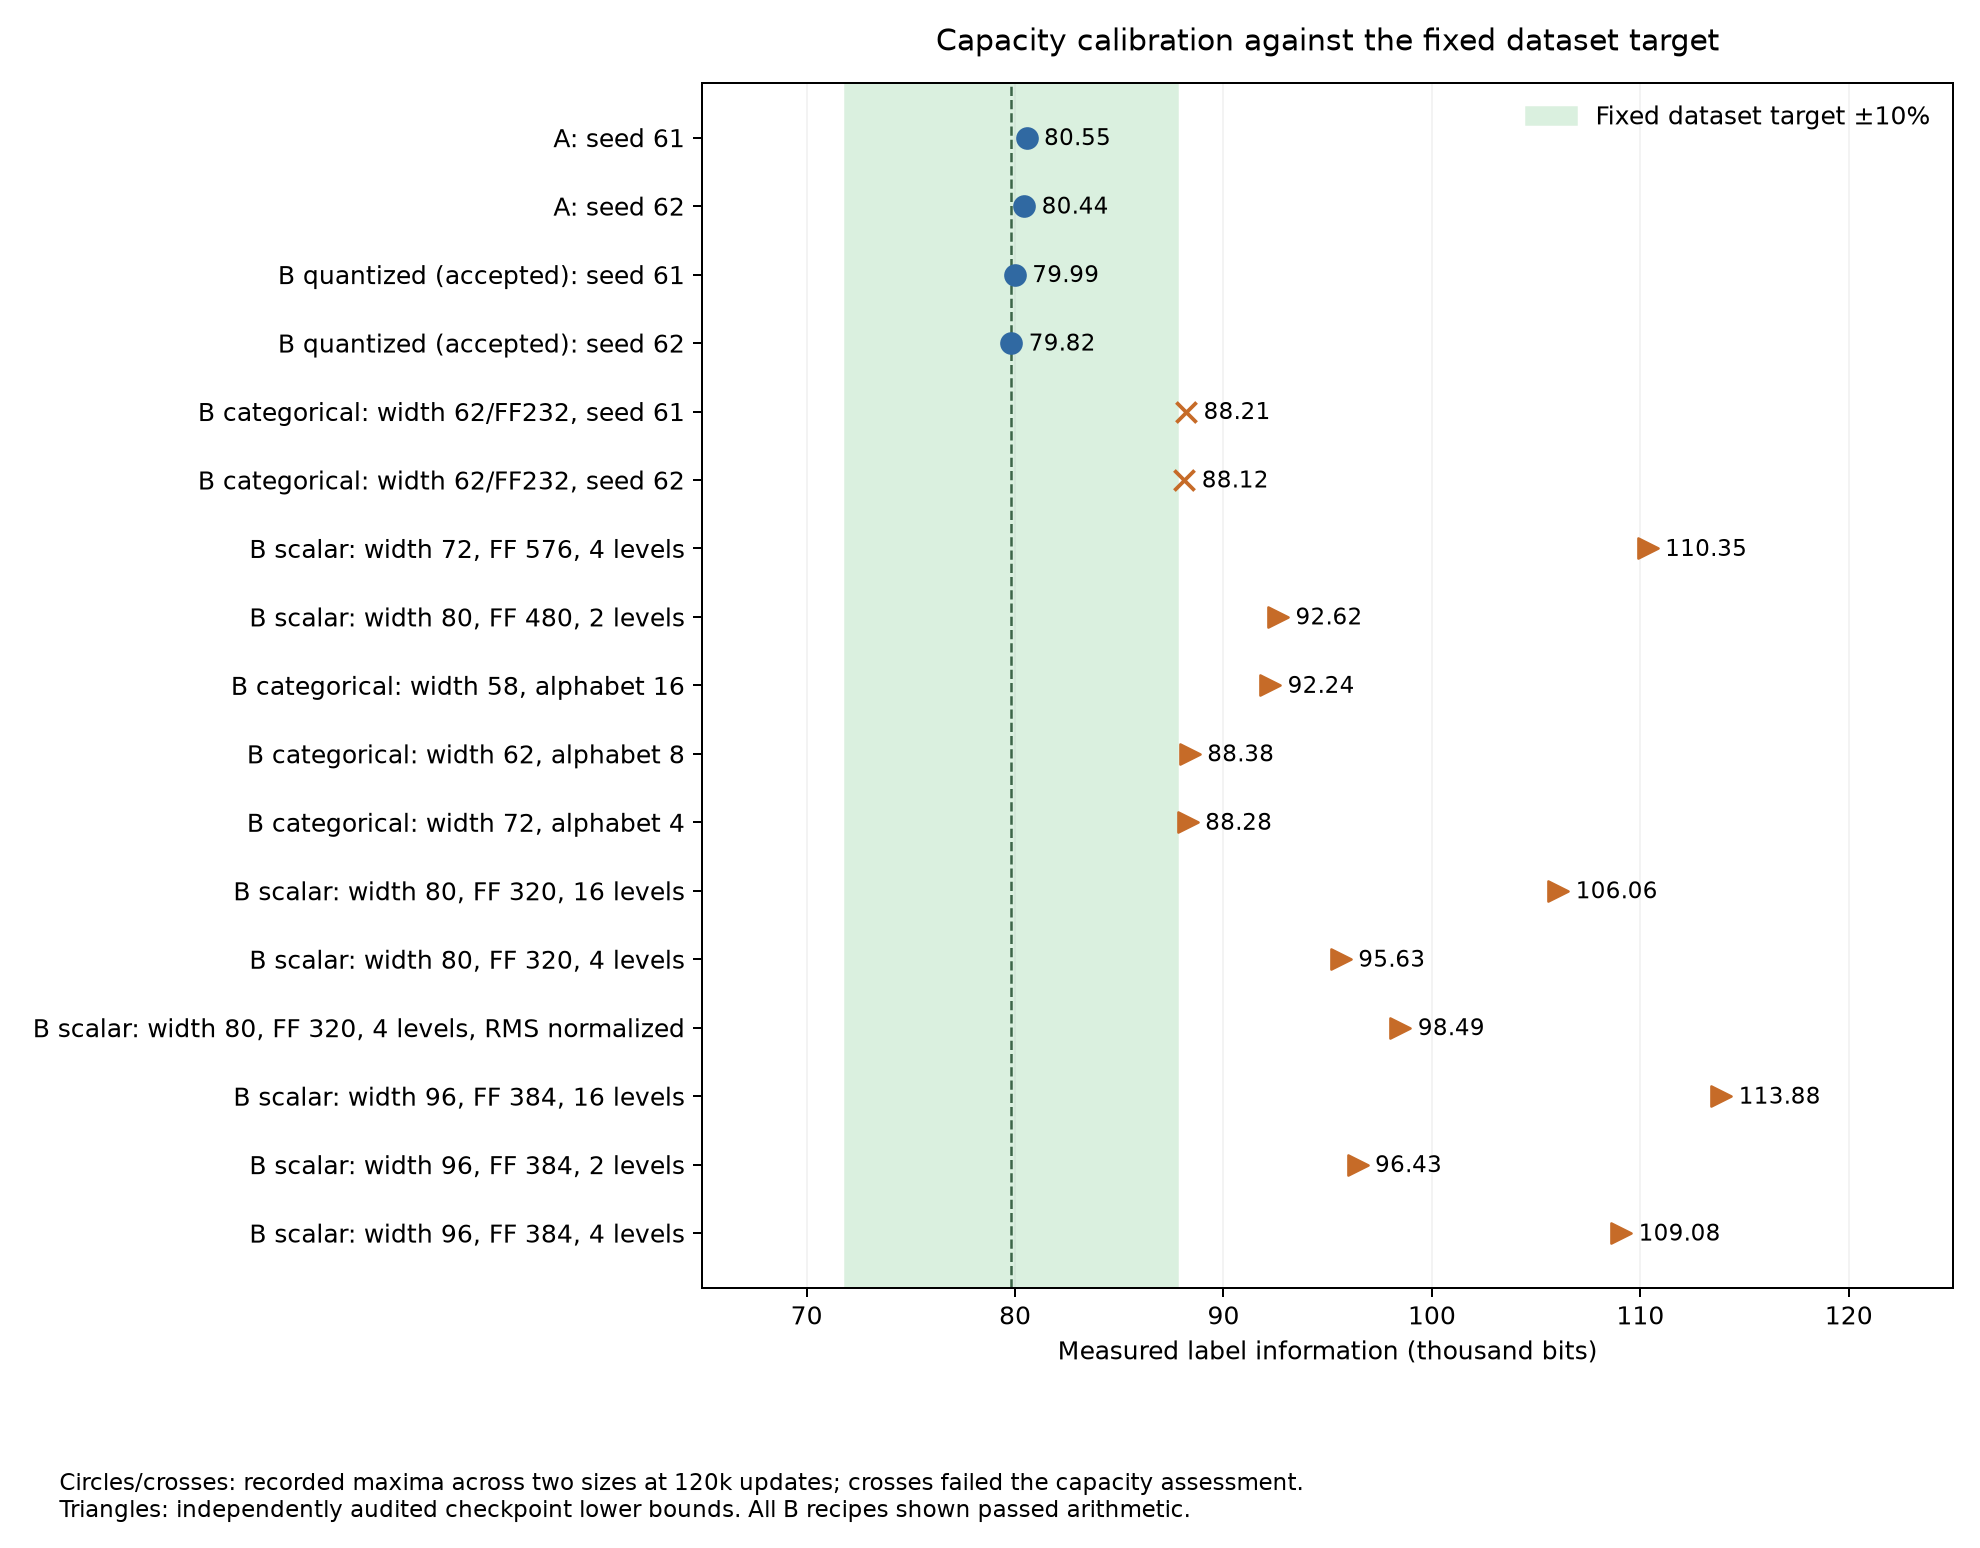
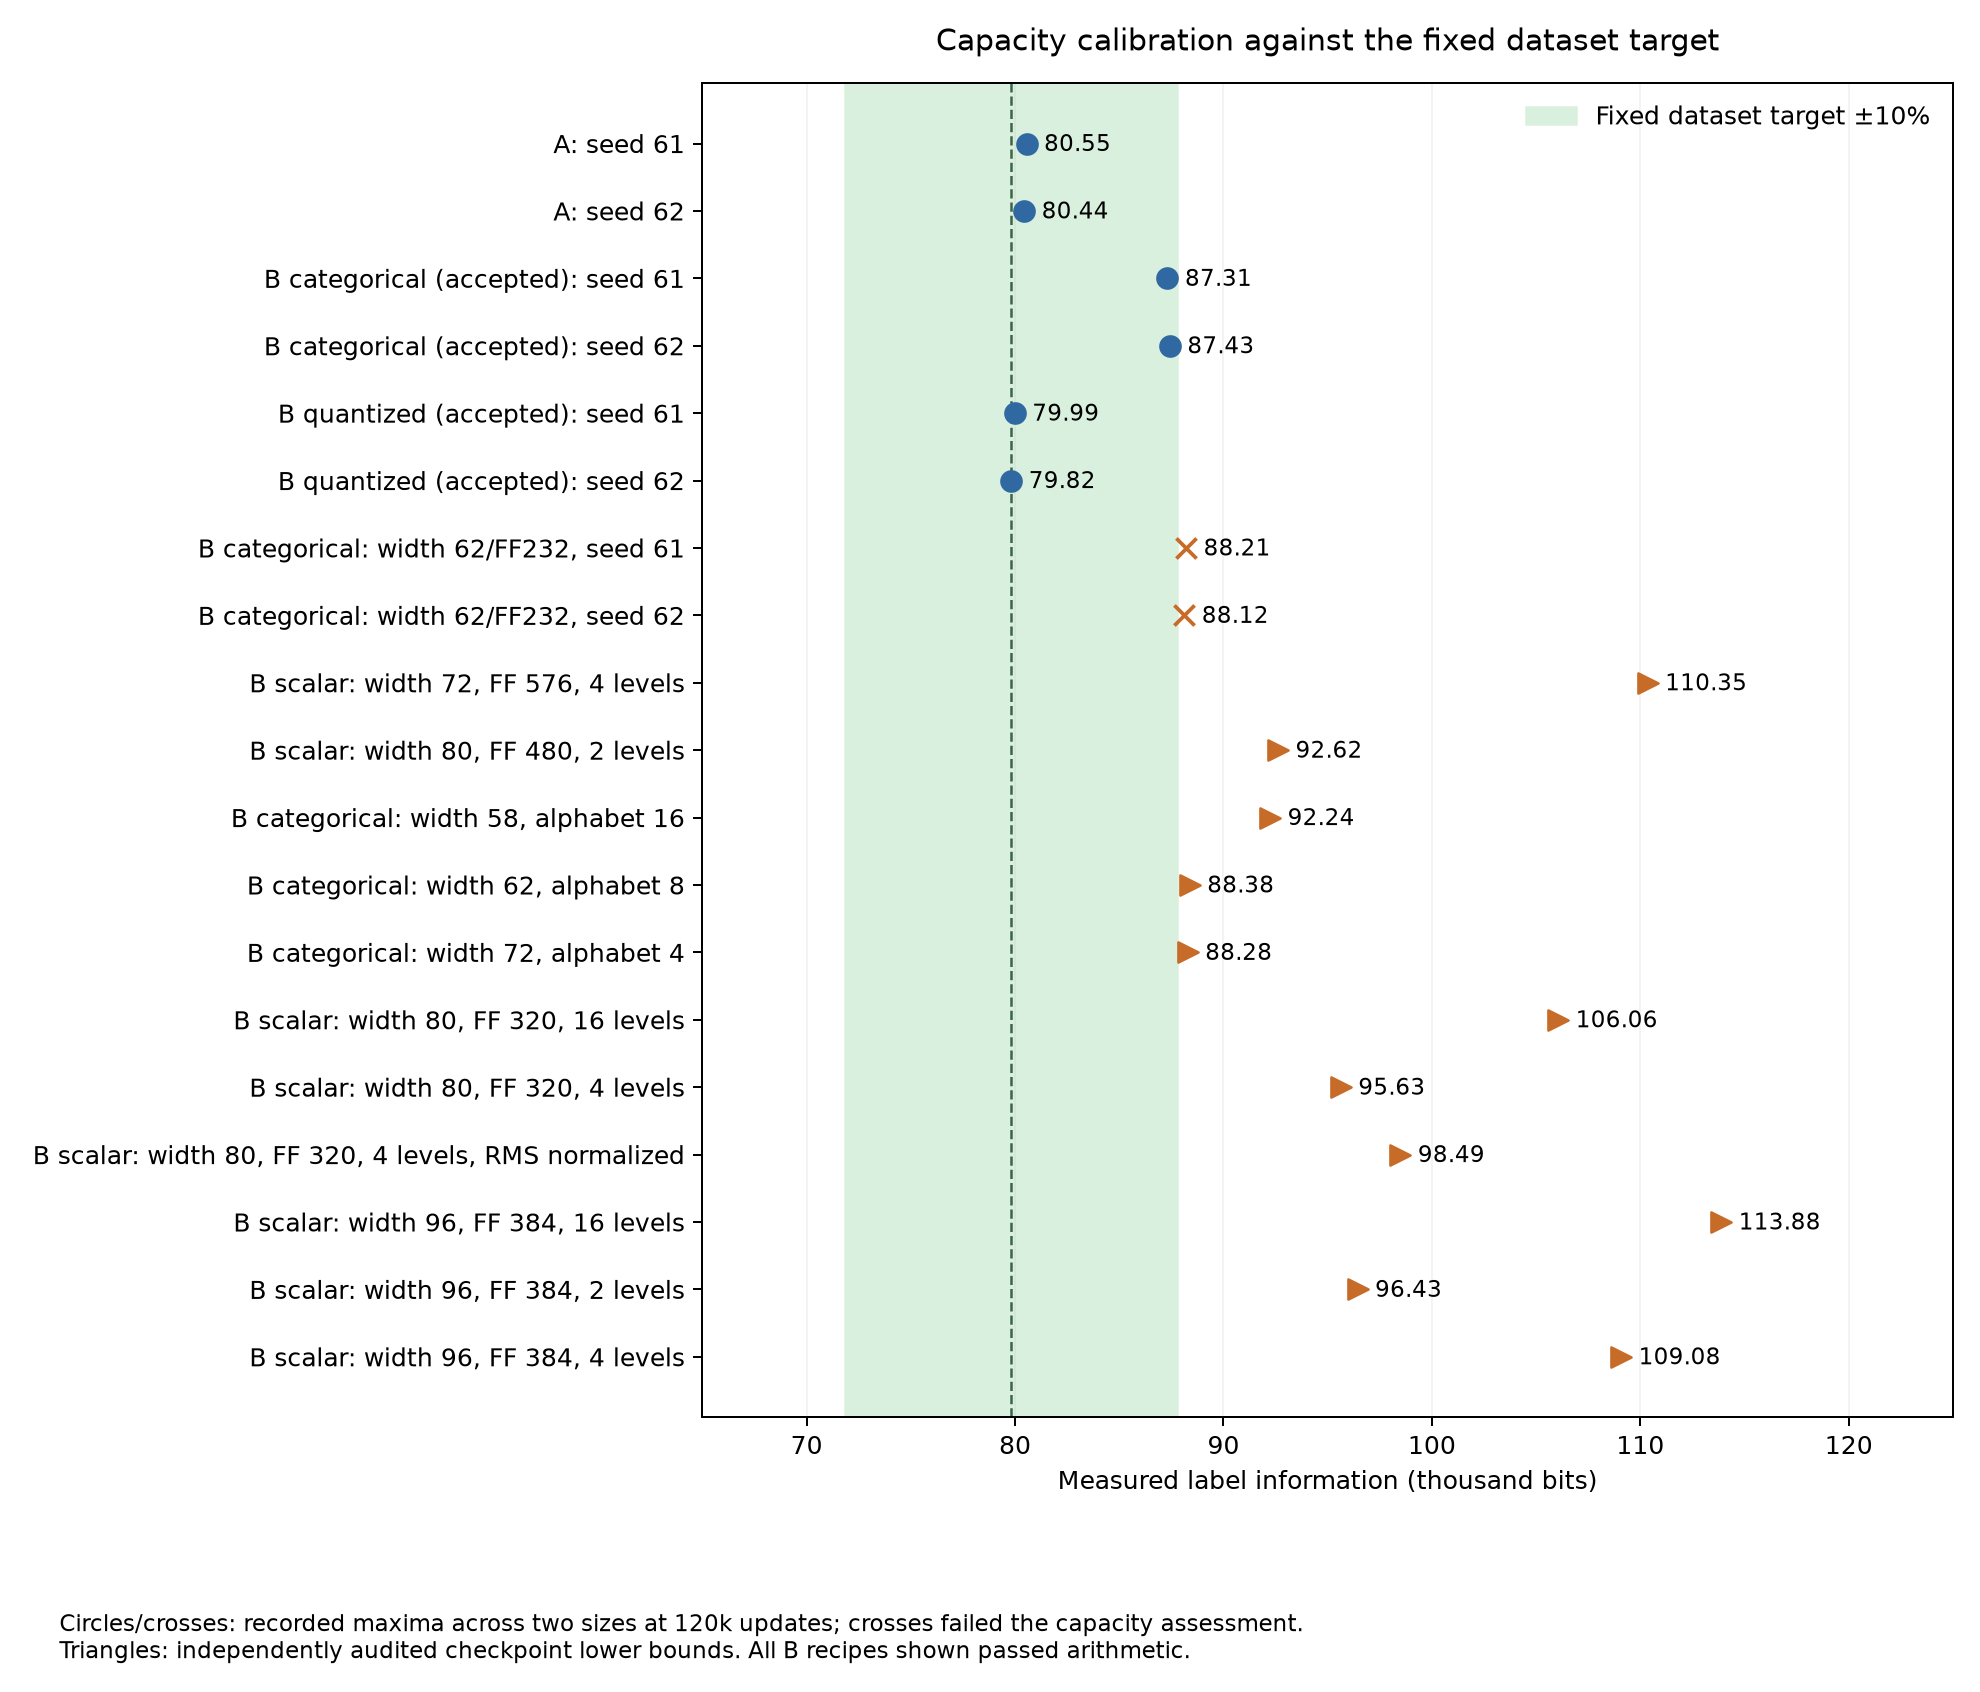
Record frozen categorical confirmation and paired ordinary C control

diff --git a/DISCRETE_EXPERIMENT.md b/DISCRETE_EXPERIMENT.md
@@ -1549,3 +1549,9 @@ paired. Run the registered descriptive C capacity control on cuda:0. Preserve
 failed/censored confirmation outcomes and report both registered sustained
 95/99 results and the supplementary paper-style99/98 first-passage delay.
 No confirmation outcome can change this frozen candidate.
+
+The categorical selection is now frozen in
+results/discrete/fullwidth-confirmation-v5-categorical-ff216/selection.json.
+The nine-run confirmation and independent audit/report worker are live, with
+the descriptive ordinary-C capacity control on the other GPU. A_s73 is the
+first completed and audited confirmation; no categorical outcome is yet claimed.
